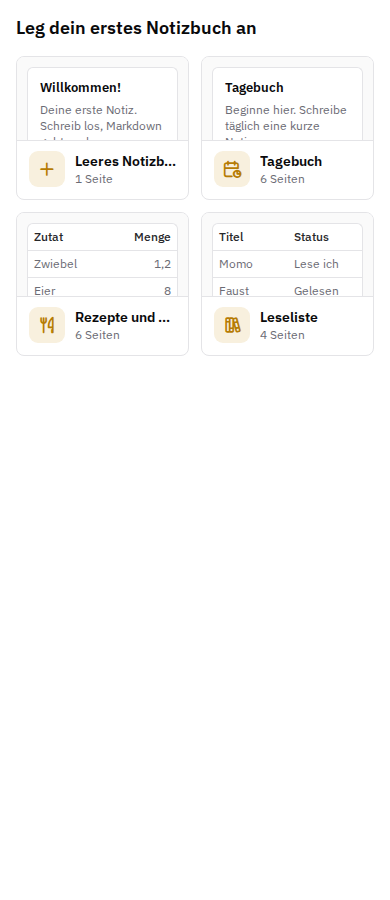
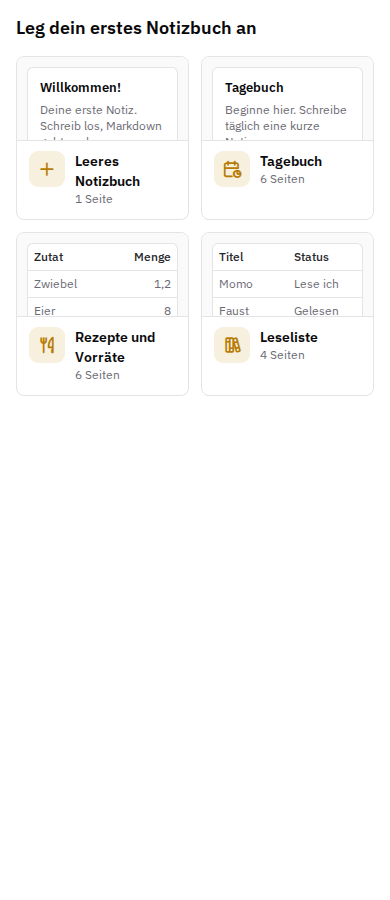
feat(ui): v2 on the phone a card's name in a row of cards takes a second line before it is cut

Changed region(s): [[0.0615, 0.1556, 0.4615, 0.4356], [0.5231, 0.2178, 0.9231, 0.4044]]

diff --git a/packages/ui/src/v2/tile-preview.browser.test.ts b/packages/ui/src/v2/tile-preview.browser.test.ts
@@ -119,12 +119,15 @@ for (const width of [1440, 390])
       await page.keyboard.press("Enter");
       await settled(page);
       expect(await page.evaluate(() => window.__k2TilePresses)).toBe(2);
+      // a name too long even for two lines on the phone ends in "…" after its second line; wide, after its first
       const cut = await button.evaluate((element) => ({
         overflow: getComputedStyle(element).textOverflow,
-        fits: element.scrollWidth <= element.clientWidth,
+        clamp: getComputedStyle(element).webkitLineClamp,
+        tooLong: element.scrollHeight > element.clientHeight + 1 || element.scrollWidth > element.clientWidth + 1,
       }));
       expect(cut.overflow).toBe("ellipsis");
-      if (width === 390) expect(cut.fits).toBe(false);
+      expect(cut.tooLong).toBe(true);
+      if (width === 390) expect(cut.clamp).toBe("2");
     });
   });
 
@@ -145,3 +148,20 @@ test("a preview column with align end sets its head and cells at the end with fi
     expect(found.cell[2]?.figures).toBe("tabular-nums");
   });
 });
+
+// The approved first start (mockup v4): on the phone, where four cards stand 2 × 2, a name such as "Private Finanzen"
+// takes a second line before it is cut; on a wide screen it stays one line.
+for (const width of [390, 1440])
+  test(`at ${width} px a card's name in a row of cards reads whole`, async () => {
+    await withPage({ width, height: 900 }, false, async (page) => {
+      const names = await page.locator(".k2-tiles > .k2-tile .k2-tile-title > .k2-row-open").evaluateAll((all) =>
+        all.map((name) => ({
+          text: name.textContent,
+          cut: name.scrollWidth > name.clientWidth + 1 || name.scrollHeight > name.clientHeight + 1,
+          lines: Math.round(name.getBoundingClientRect().height / Number.parseFloat(getComputedStyle(name).lineHeight)),
+        })),
+      );
+      expect(names.filter((name) => name.cut)).toEqual([]);
+      if (width === 1440) for (const name of names) expect(name.lines).toBe(1);
+    });
+  });

diff --git a/packages/ui/src/v2/v2.css b/packages/ui/src/v2/v2.css
@@ -1163,6 +1163,19 @@
   text-overflow: ellipsis;
   white-space: nowrap;
 }
+/* on the phone, where cards share a row of half (2 × 2), a card's name takes a second line before it is cut: a name
+   such as "Leeres Notizbuch" reads whole, as the approved first start draws it */
+@media not all and (min-width: 768px) {
+  .k2-ui .k2-tiles[data-variant="card"][data-per-row] .k2-tile-title,
+  .k2-ui .k2-tiles[data-variant="card"][data-per-row] .k2-tile-title > .k2-row-open {
+    display: -webkit-box;
+    -webkit-box-orient: vertical;
+    -webkit-line-clamp: 2;
+    line-clamp: 2;
+    white-space: normal;
+    overflow-wrap: anywhere;
+  }
+}
 .k2-ui .k2-tile-top > .k2-tile-name > .k2-tile-title > .k2-row-open::after,
 .k2-ui .k2-tile-name > .k2-tile-title > .k2-row-open::after {
   border-radius: var(--k2-r-control);

diff --git a/packages/ui/skills/k2b-ui/references/primitives.md b/packages/ui/skills/k2b-ui/references/primitives.md
@@ -164,7 +164,8 @@ Never nested. With `color` the symbol becomes the thing's `Mark`.
 `perRow={n}`: at most n tiles share a row and grow with its width; a tile
 never gets narrower than 240 px for it. Where n do not fit, a row holds
 half of them (four as 2 × 2, never 3 + 1), and below that one under the
-other. On the phone a row always holds half of them, even below 240 px.
+other. On the phone a row always holds half of them, even below 240 px,
+and a card's name there takes a second line before it is cut.
 
 `variant="card"`: each thing a card in a grid (at least 240 px a card) for
 an overview of things with a face, such as the bases of Grids. A card
